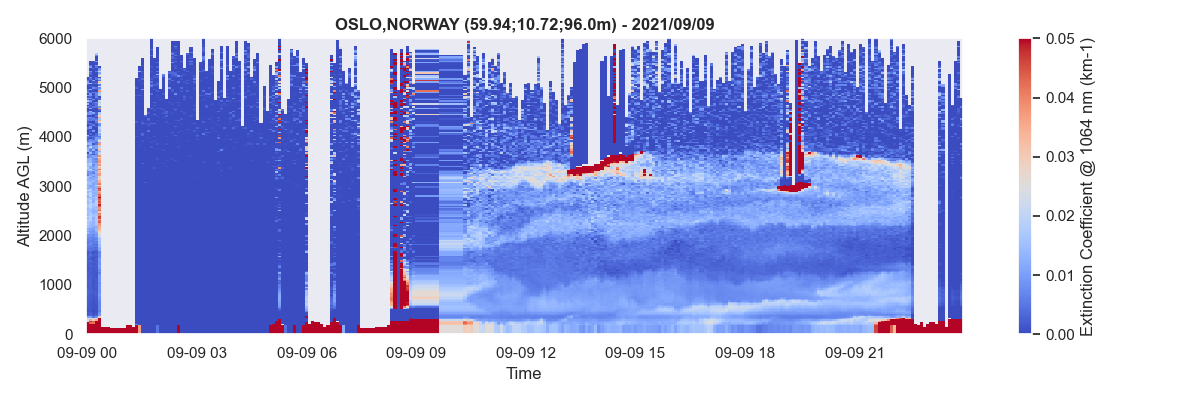
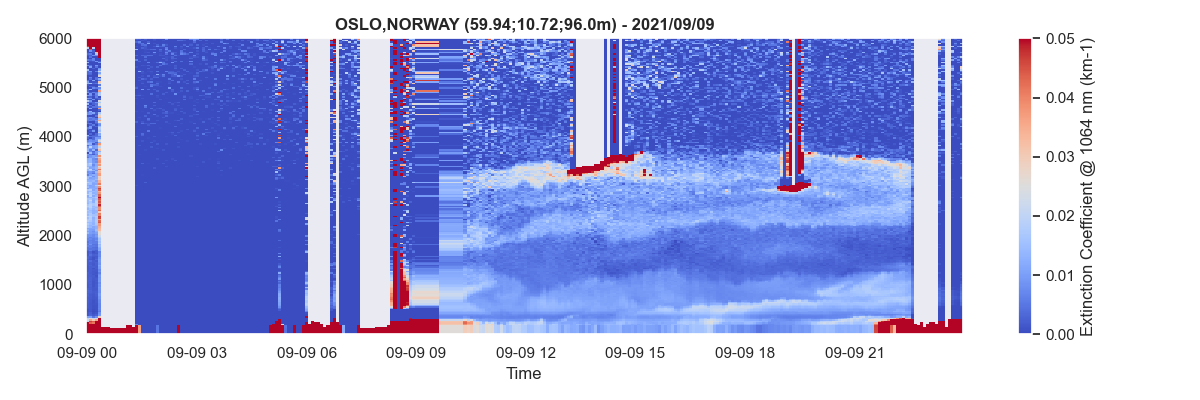
use max altitude as ref altitude when using forward inversion method

Changed region(s): [[0.0617, 0.09, 0.8017, 0.42]]

diff --git a/aprofiles/retrieval/extinction.py b/aprofiles/retrieval/extinction.py
@@ -261,7 +261,10 @@ def inversion(
         lowest_cloud_agl = lowest_clouds[i] - profiles.data.station_altitude.data
         imin = profiles._get_index_from_altitude_AGL(zmin)
         imax = profiles._get_index_from_altitude_AGL(np.nanmin([zmax, lowest_cloud_agl]))
-        iref = get_iref(rcs.data[i, :], imin, imax, min_snr)
+        if method == "backward":
+            iref = get_iref(rcs.data[i, :], imin, imax, min_snr)
+        elif method == "forward":
+            iref = imax
         z_ref.append(altitude[iref])
 
         if iref is not None:

diff --git a/docs/changelog.rst b/docs/changelog.rst
@@ -9,6 +9,7 @@ Changelog
 Dec 9, 2021
 
 - Fix major bug in *forward* inversion method (use of molecular transmission instead of aerosol transmission).
+- Use max altitude as reference altitude when using the forward inversion method.
 - Add a *simulator* module for computing attenuated backscatter profiles from a given extinction profile model.
 - Remove outliers in standard workflow called by the CLI.
 
